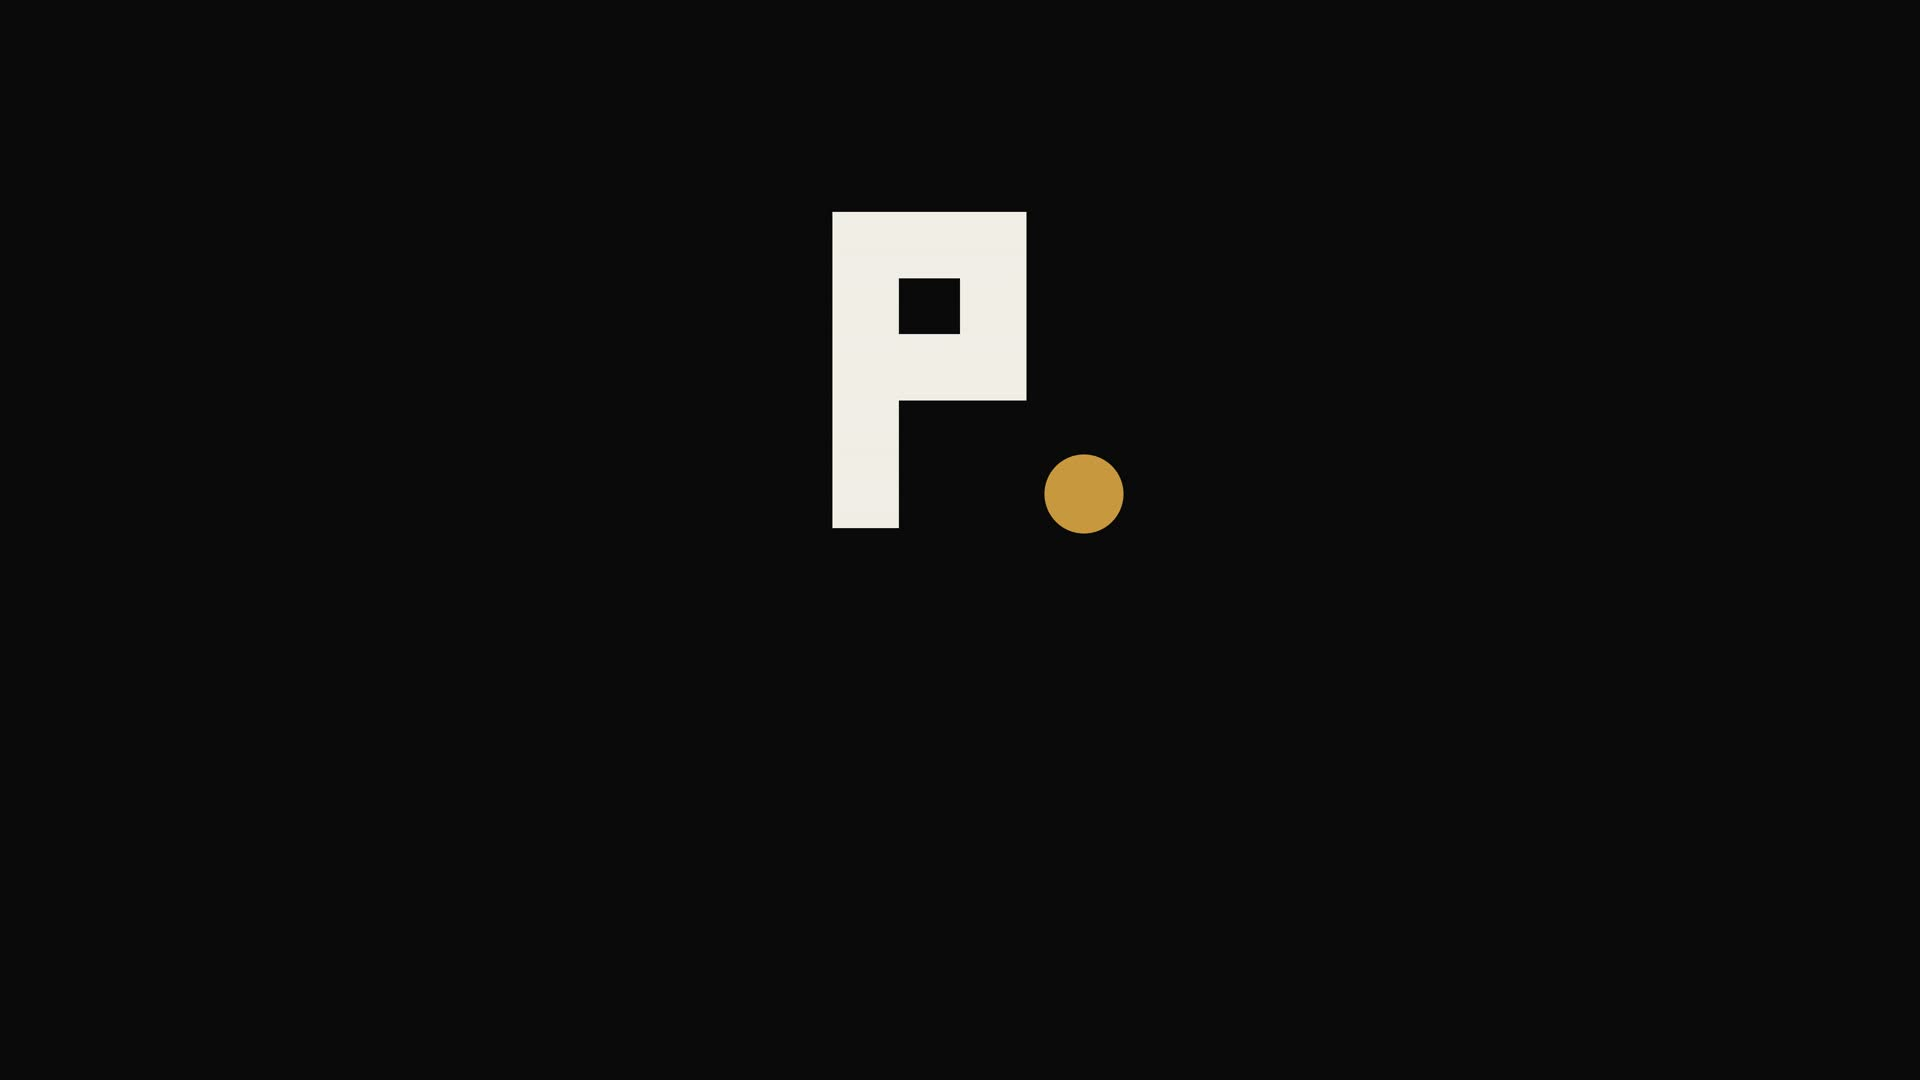
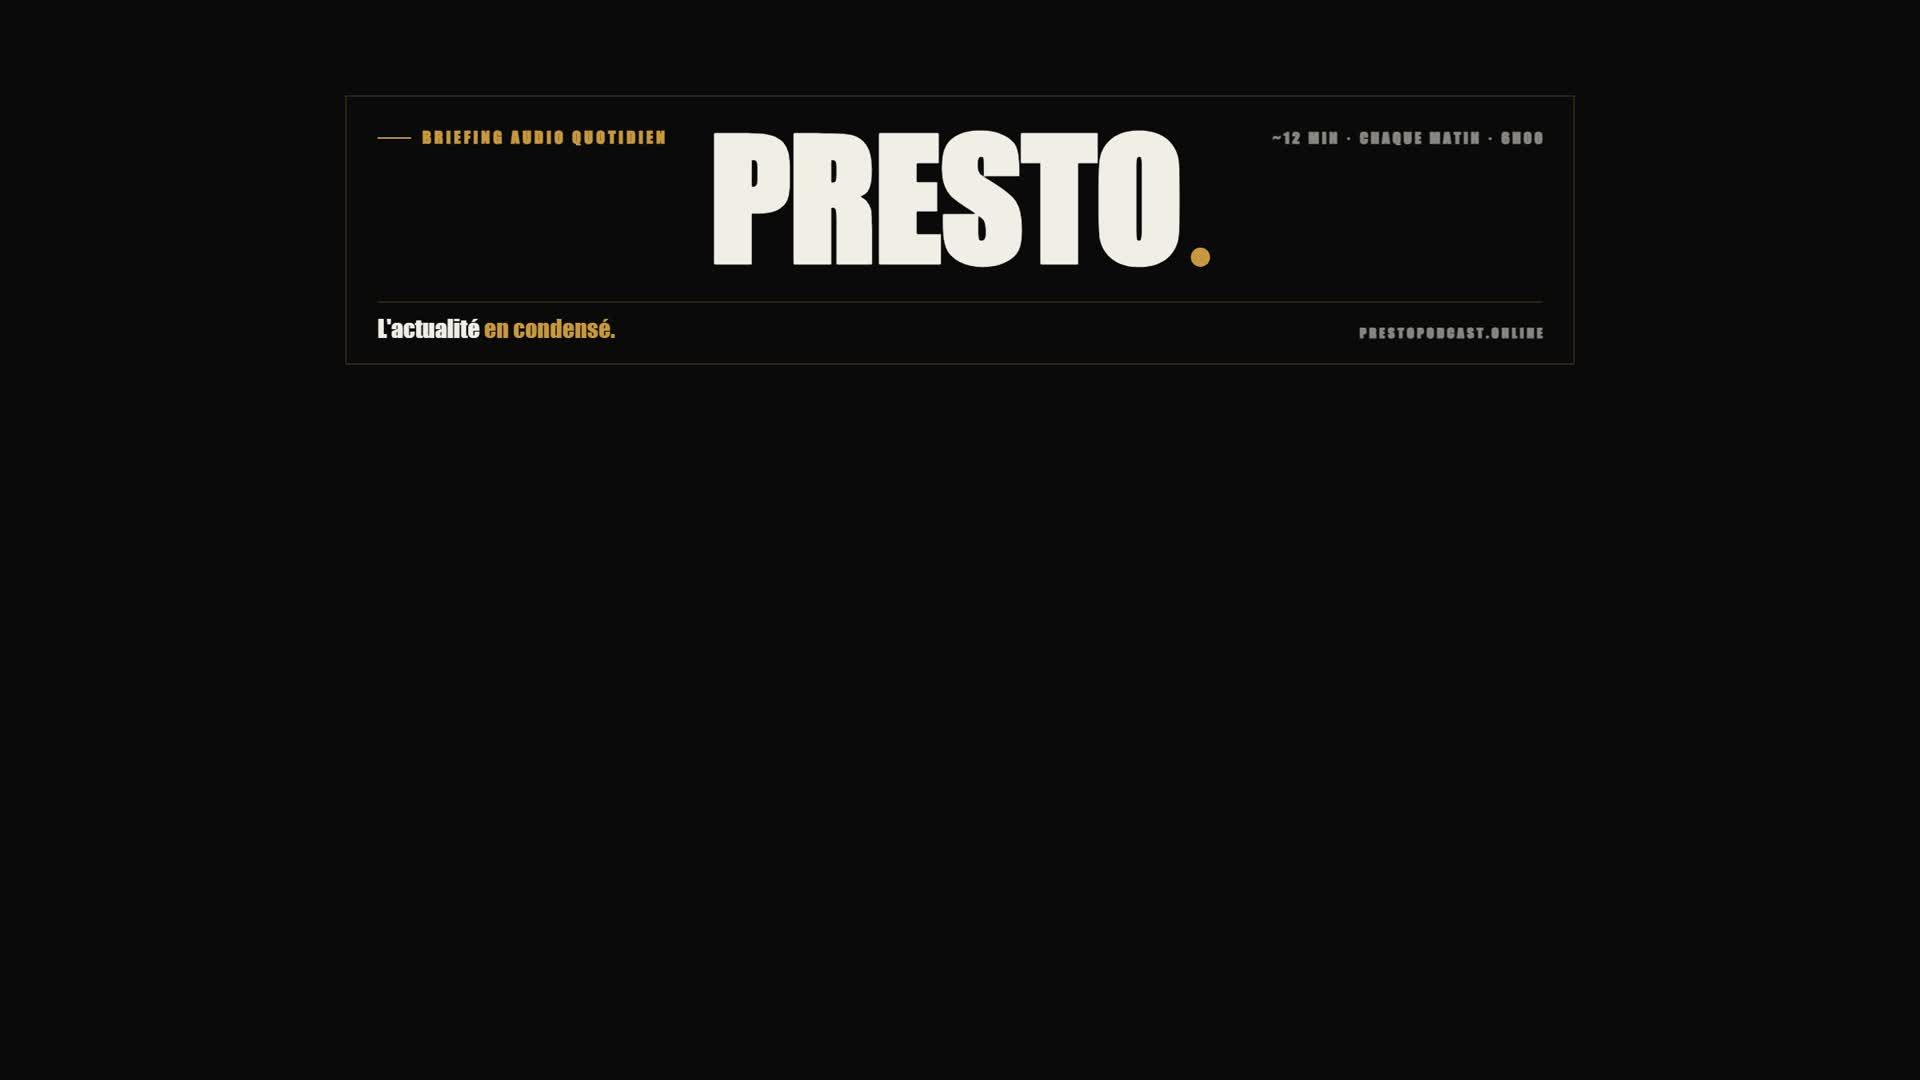
feat: banniere PRESTO en fond + sous-titres FontSize 28 MarginV 90

diff --git a/tools/generate_video.py b/tools/generate_video.py
@@ -24,13 +24,13 @@ def generate_video(
     # "Error applying option 'FontSize': Option not found".
     subtitle_style = (
         "FontName=DejaVu Sans"
-        ",FontSize=30"
+        ",FontSize=28"
         ",PrimaryColour=&H00FFFFFF"
         ",OutlineColour=&H00000000"
         ",Outline=2"
         ",Shadow=1"
         ",Alignment=2"
-        ",MarginV=60"
+        ",MarginV=90"
     )
 
     # The ffmpeg `subtitles` filter is notoriously fragile with absolute paths